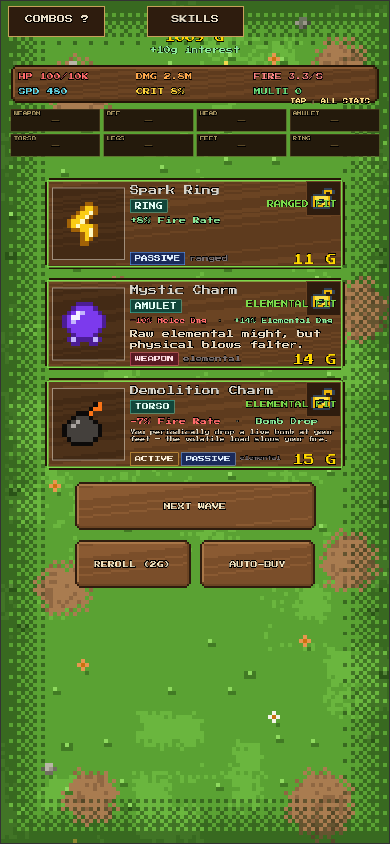
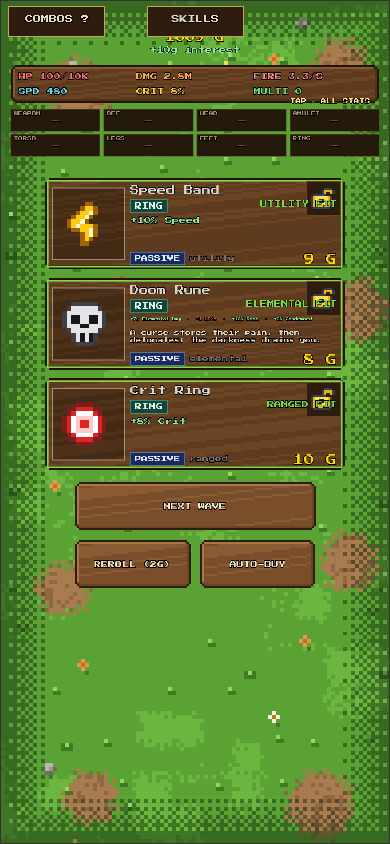
fix(duos): Phantom Counter now boosts counter-burst dmg only, not all damage
The Phantom Counter duo previously used damageMultiplier: 1.35, which
gave a +35% boost to ALL damage output (regular shots, melee swing,
counter-burst, etc.) — contradicting its description of "+35% counter-burst
damage". This fixes it:

- New DuoCombo field: riposteDamageMult (multiplicative, counter-burst only)
- DuoSystem.getTotalBonuses() now returns riposteDamageMult
- ItemSystem.getRiposteDamageMult() exposes it via the stats API
- Game.ts applies getRiposteDamageMult() only to the riposte shockwave
- ShopScene.ts Counter Dmg row now shows the correct post-multiplier value
- Phantom Counter swapped from damageMultiplier to riposteDamageMult: 1.35

Mechanically: the duo is now correctly scoped — it amplifies the evasion
payoff (the counter-burst) without silently buffing the entire build.
tsc CLEAN ✅ · qa-stats-parity 2189 PASS ✅ · qa-stats-popup PASS ✅

diff --git a/frontend/src/DuoSystem.ts b/frontend/src/DuoSystem.ts
@@ -33,6 +33,9 @@ export interface DuoCombo {
   dodge?: number;
   shopDiscount?: number;
 
+  // Riposte-specific damage multiplier (applies only to on-dodge counter-burst damage)
+  riposteDamageMult?: number;
+
   // Special effects
   specialEffect?: string; // Description of unique mechanic
   glowColor?: string;     // Visual feedback
@@ -274,7 +277,7 @@ export const DUO_COMBOS: DuoCombo[] = [
     icon: '👻🌀',
     item1Id: 'riposte_t3',      // Phantom Reflex
     item2Id: 'dodge_t3',        // Shadow Step
-    damageMultiplier: 1.35,     // counter bursts use getDamage() — amplifies them directly
+    riposteDamageMult: 1.35,    // counter-burst damage only — not general damage
     dodge: 0.10,                // +10% dodge = more riposte triggers
     speedMultiplier: 1.10,      // mobility fits both phantom/shadow themes
     glowColor: '#a78bfa',
@@ -348,6 +351,7 @@ export class DuoTracker {
     dodge: number;
     healthRegen: number;
     shopDiscount: number;
+    riposteDamageMult: number;
   } {
     const activeDuos = this.getActiveDuos();
 
@@ -367,7 +371,8 @@ export class DuoTracker {
       dodge: activeDuos.reduce((acc, duo) => acc + (duo.dodge || 0), 0),
       healthRegen: activeDuos.reduce((acc, duo) => acc + (duo.healthRegen || 0), 0),
       shopDiscount: activeDuos.reduce((acc, duo) => acc + (duo.shopDiscount || 0), 0),
-      critDamageMultiplier: activeDuos.reduce((acc, duo) => acc * (duo.critDamageMultiplier || 1), 1)
+      critDamageMultiplier: activeDuos.reduce((acc, duo) => acc * (duo.critDamageMultiplier || 1), 1),
+      riposteDamageMult: activeDuos.reduce((acc, duo) => acc * (duo.riposteDamageMult || 1), 1),
     };
   }
 

diff --git a/frontend/src/Game.ts b/frontend/src/Game.ts
@@ -1687,15 +1687,16 @@ export class Game {
     }
 
     // Riposte: fire a retaliatory shockwave for each queued dodge-counter
-    // Damage = base damage × total ripostePower (additive per stack).
-    // Radius is tighter than a nova (130px base) so it reads as a sharp counter-burst,
-    // not a free area-clear — it needs evasion-build commitment to shine.
+    // Damage = base damage × total ripostePower (additive per stack) × riposteDamageMult
+    // (duo bonus — currently only Phantom Counter, ×1.35). Radius is tighter than a nova
+    // (130px base) so it reads as a sharp counter-burst, not a free area-clear — it needs
+    // evasion-build commitment to shine.
     if (this.player.pendingRipostes > 0) this.audio.playRiposte();
     while (this.player.pendingRipostes > 0) {
       this.player.pendingRipostes--;
       const px = this.player.x;
       const py = this.player.y;
-      const riposteDmg = this.playerStats.getDamage() * this.playerStats.getRipostePower();
+      const riposteDmg = this.playerStats.getDamage() * this.playerStats.getRipostePower() * this.playerStats.getRiposteDamageMult();
       const riposteRadius = 130 * this.playerStats.getAoeRadiusMult();
       this.shockwaves.push(new Shockwave(px, py, riposteRadius, riposteDmg, 640, '#e8b266'));
       this.damageNumbers.push(

diff --git a/frontend/src/ShopScene.ts b/frontend/src/ShopScene.ts
@@ -1408,7 +1408,7 @@ export class ShopScene implements Scene {
         ['Swing Arc', `${Math.round(ps.getSwingArc() * 180 / Math.PI)}°`, ps.getSwingArc() > Math.PI * 0.701 && (ps.getSwingRange() > 70.5 || ps.getMeleeDamageMult() > 1.001 || ps.getSwingAoe() > 0)],
         ['Loaded Shot', '1-in-10 = 3× + pierce', ps.hasLoadedShot()],
         ['Status Luck', 'TWICE', ps.hasFourleafCharm()],
-        ['Counter Dmg', num(Math.round(ps.getDamage() * ps.getRipostePower())), ps.getRipostePower() > 0],
+        ['Counter Dmg', num(Math.round(ps.getDamage() * ps.getRipostePower() * ps.getRiposteDamageMult())), ps.getRipostePower() > 0],
         ['Malice Dmg', `+${pct(ps.getTimeRampDamage() * growingMaliceStacks)}`, ps.getTimeRampDamage() > 0],
         ['Grindstone Dmg', `+${pct(ps.getWaveRampDamage() * Math.max(0, wavesSurvived - 1))}`, ps.getWaveRampDamage() > 0 && wavesSurvived > 1],
         ['Juggernaut', `+${pct(ps.getHighHpPower())} if >90% HP`, ps.getHighHpPower() > 0],

diff --git a/frontend/src/ItemSystem.ts b/frontend/src/ItemSystem.ts
@@ -1218,6 +1218,11 @@ export class PlayerStats {
     return this.ensureAgg().ripostePower;
   }
 
+  /** Counter-burst damage multiplier from duos (e.g. Phantom Counter ×1.35). 1 = no bonus. */
+  getRiposteDamageMult(): number {
+    return this.duos.getTotalBonuses().riposteDamageMult;
+  }
+
   /**
    * Roll a random on-hit STATUS proc. Single source of truth for burn/bleed/freeze/
    * chain/doom/wound/multicast rolls, so the Fourleaf Charm keystone can lift them all
